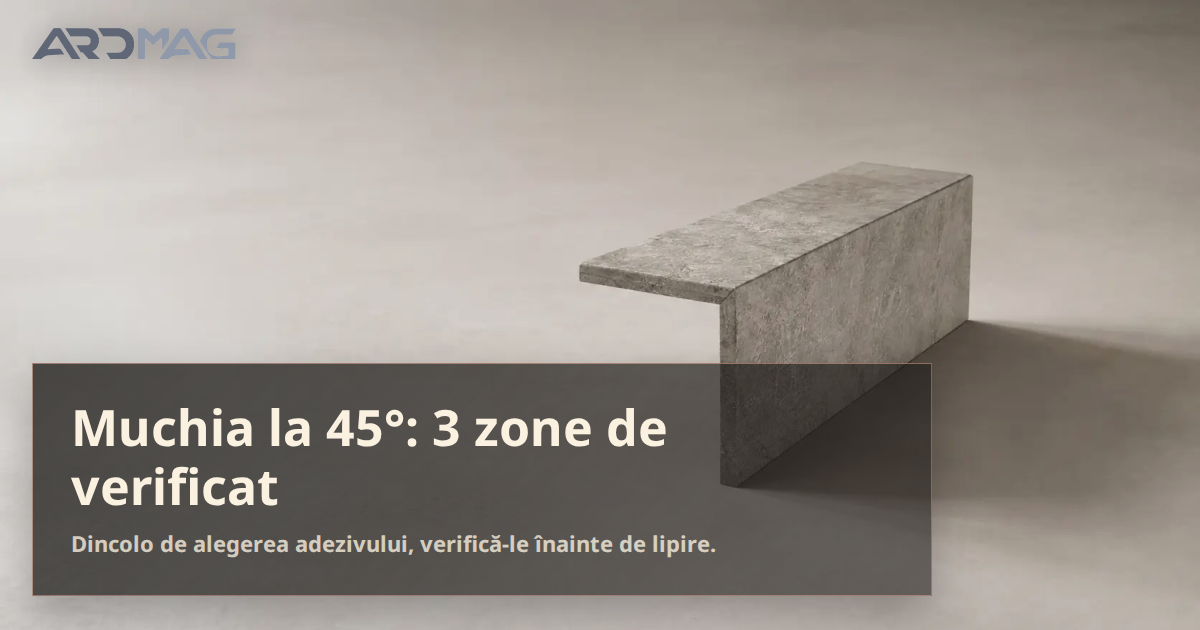
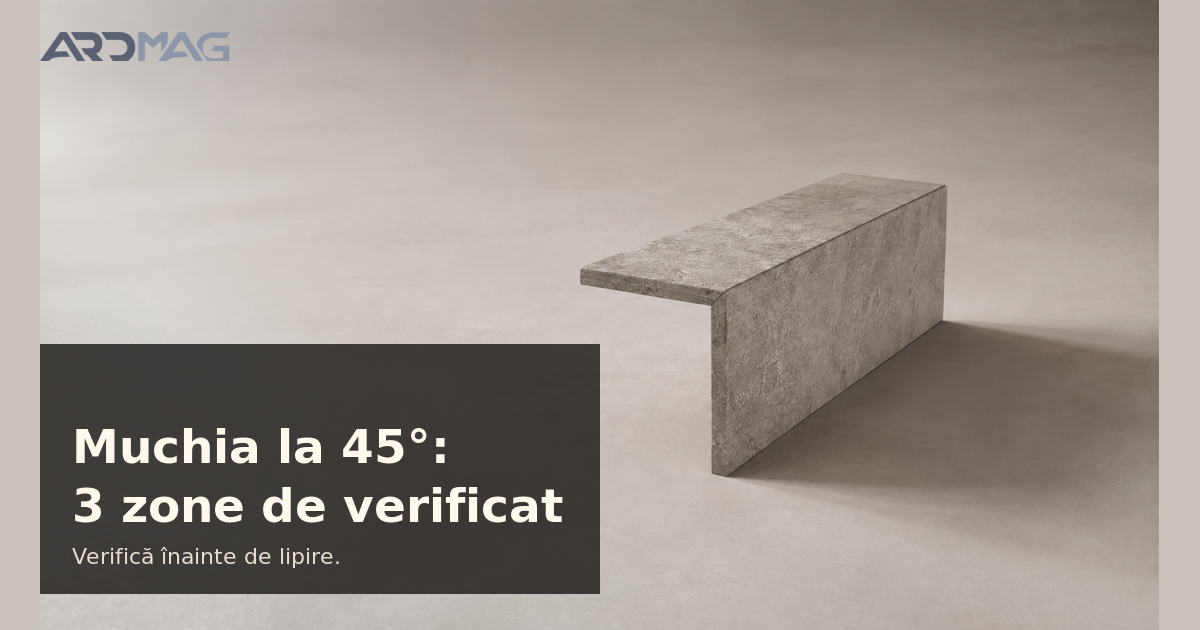
fix: păstrează cadrul complet al plăcilor la 45°

diff --git a/backend-storefront/src/styles/design-system.css b/backend-storefront/src/styles/design-system.css
@@ -1426,6 +1426,13 @@ a.badge:hover{transform:translateY(-1px)}
 .article-head--hero{position:relative;overflow:hidden;border-bottom:none;background:transparent}
 .article-head--hero .hero-bg{position:absolute;inset:0;width:100%;height:100%;object-fit:cover;object-position:center;z-index:0}
 .article-head--hero .hero-overlay{position:absolute;inset:0;background:linear-gradient(105deg,rgba(4,3,2,0.92) 0%,rgba(4,3,2,0.80) 38%,rgba(4,3,2,0.30) 65%,transparent 100%);z-index:1}
+.article-head--hero[data-article-slug="lipirea-la-45-eviti-fisurarea-muchiei"]{background:#c9c3bb}
+.article-head--hero[data-article-slug="lipirea-la-45-eviti-fisurarea-muchiei"] .hero-bg{object-fit:contain;object-position:right center}
+@media(max-width:720px){
+  .article-head--hero[data-article-slug="lipirea-la-45-eviti-fisurarea-muchiei"]{background:var(--stone-950)}
+  .article-head--hero[data-article-slug="lipirea-la-45-eviti-fisurarea-muchiei"] .hero-bg{position:relative;display:block;width:100%;height:auto;object-fit:contain;object-position:center}
+  .article-head--hero[data-article-slug="lipirea-la-45-eviti-fisurarea-muchiei"] .hero-overlay{display:none}
+}
 .article-head--hero .wrap{position:relative;z-index:2;padding-top:32px;padding-bottom:52px}
 .article-head--hero .article-crumbs,.article-head--hero .article-crumbs a{color:rgba(255,255,255,0.55)}
 .article-head--hero .article-crumbs .sep{color:rgba(255,255,255,0.25)}

diff --git a/backend-storefront/src/app/[countryCode]/(main)/blog/[slug]/page.tsx b/backend-storefront/src/app/[countryCode]/(main)/blog/[slug]/page.tsx
@@ -109,7 +109,10 @@ export default async function BlogArticlePage({ params }: Props) {
       <SiteHeaderShell countryCode={countryCode} />
 
       {/* ── ARTICLE HEAD ── */}
-      <header className={`article-head${article.heroImage ? " article-head--hero" : ""}`}>
+      <header
+        className={`article-head${article.heroImage ? " article-head--hero" : ""}`}
+        data-article-slug={slug}
+      >
         {article.heroImage && (
           <>
             <img className="hero-bg" src={article.heroImage} alt="" aria-hidden="true" />

diff --git a/WORKLOG.md b/WORKLOG.md
@@ -5,6 +5,14 @@ Format: data + commits + descriere + deploy URL + confirmare user.
 
 ---
 
+## 2026-08-20 -- Cadrul complet al celor două plăci este păstrat în hero și OG
+
[1 lines of base64/hex data omitted]
+- Cauza aspectului de „două tije” era crop-ul CSS `object-fit: cover`: desktopul elimina aproximativ 41% din înălțimea sursei, iar mobilul păstra aproximativ 42% din lățime. Articolul păstrează acum cadrul complet pe desktop și afișează imaginea integrală deasupra textului pe mobil.
+- OG-ul 1200x630 este derivat din aceeași sursă prin redimensionare proporțională și padding contextual. Singurele adaosuri sunt logo-ul și overlay-ul editorial în spațiul liber din stânga; geometria îmbinării și suprafețele plăcilor nu sunt acoperite sau modificate.
+- Validări: publication gate 10/10 PASS; build Vercel PASS (753 pagini statice); preview `dpl_EkePf53J1v8BAk7zBea2zN57VmLG` Ready. Build-ul local compilează, apoi cheia publică Medusa locală expirată blochează sitemap-ul; configurația reală Vercel finalizează build-ul.
+- ClickUp/time entry: conectorul și skill-ul local `aibaza-deploy-workflow` nu sunt disponibile în această sesiune.
+
 ## 2026-08-18 -- Corecțiile expert pentru lipirea la 45° sunt live
 
 - Articolul recomandă din primul paragraf StrongEdge 45, Glaxs Fast și Eliox; recomandarea Eliox pentru 45° este atribuită experienței de atelier a lui Andrei Rinzis, separat de afirmațiile confirmate în fișa Tenax.

diff --git a/backend-storefront/content/blog/lipirea-la-45-eviti-fisurarea-muchiei.md b/backend-storefront/content/blog/lipirea-la-45-eviti-fisurarea-muchiei.md
@@ -7,7 +7,7 @@ review: "PASS"
 publishedAt: "2026-07-30"
 author: "Echipa ardmag"
 tags: ["mastici", "Tenax", "piatra naturala", "45 grade", "muchie suprapusa", "atelier"]
-heroImage: "/blog/lipirea-la-45-eviti-fisurarea-muchiei/hero.webp"
+heroImage: "/blog/lipirea-la-45-eviti-fisurarea-muchiei/hero-source.png"
 heroImageWidth: 1672
 heroImageHeight: 941
 ogImage: "/assets/articles/lipirea-la-45-eviti-fisurarea-muchiei/og.png"
